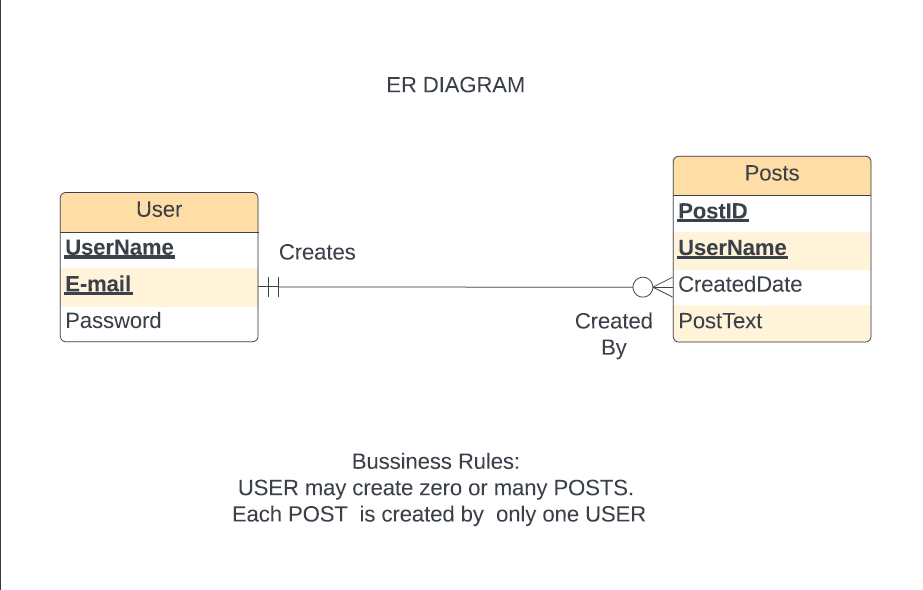
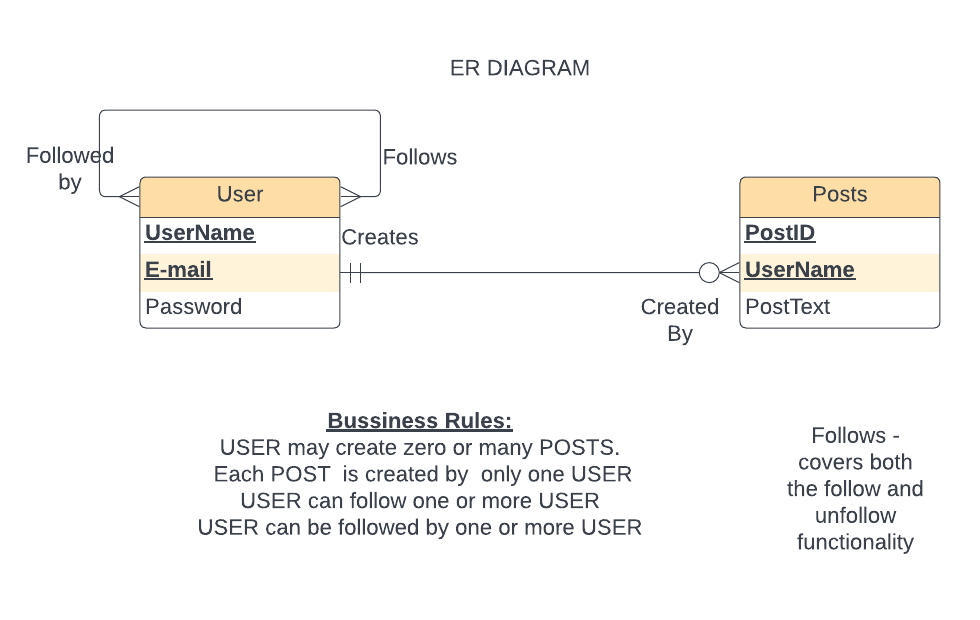
updated ER diagram

diff --git a/README.md b/README.md
@@ -9,4 +9,4 @@ user should be able to:
 
 The below screenshot is the ER Diagram of this project.
 
-![Tux, ER diagram](/public/images/ER_diagram.PNG)
+![Tux, ER diagram](/public/images/ER_diagram.png)
